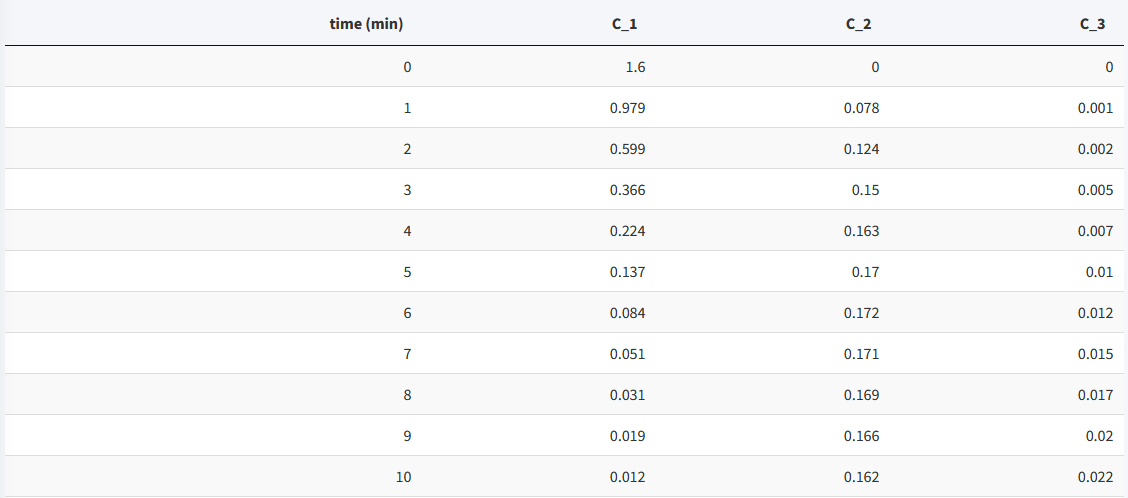
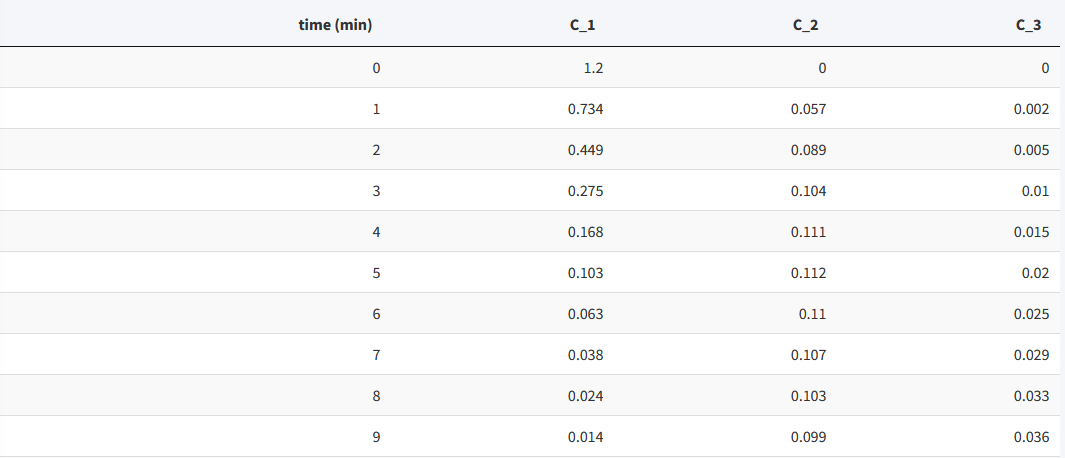
docs: updated parameter estimation tutorial

diff --git a/docs/pages/tutorial_par_estimation.rst b/docs/pages/tutorial_par_estimation.rst
@@ -21,7 +21,8 @@ From there, Nicotine diffuses to various tissues of the body through simple
 diffusion (**PS**) and is also removed from the plasma at a flow rate of 
 **F_2**.  In this model, we are unsure of the value of **PS** and will use
 parameter estimation to estimate the value from experimental data that found
-the concentration of nicotine in the plasma at various timepoints. 
+the concentration of nicotine in the plasma at various timepoints. The starting
+concentration of **C** in the alveoli is 1.2 mol. 
 
 
 Build Model
@@ -37,7 +38,7 @@ corresponding volumes:
 .. figure:: tutorial_parameter_estimation/images/1_comps_named.png
 
 Next, we will add a concentration (**C**) variable for nicotine to each 
-compartment. 
+compartment and give an initial concentration of 1.2 mol to **C_1**. 
 
 .. figure:: tutorial_parameter_estimation/images/2_species_add_w_con.png
 
